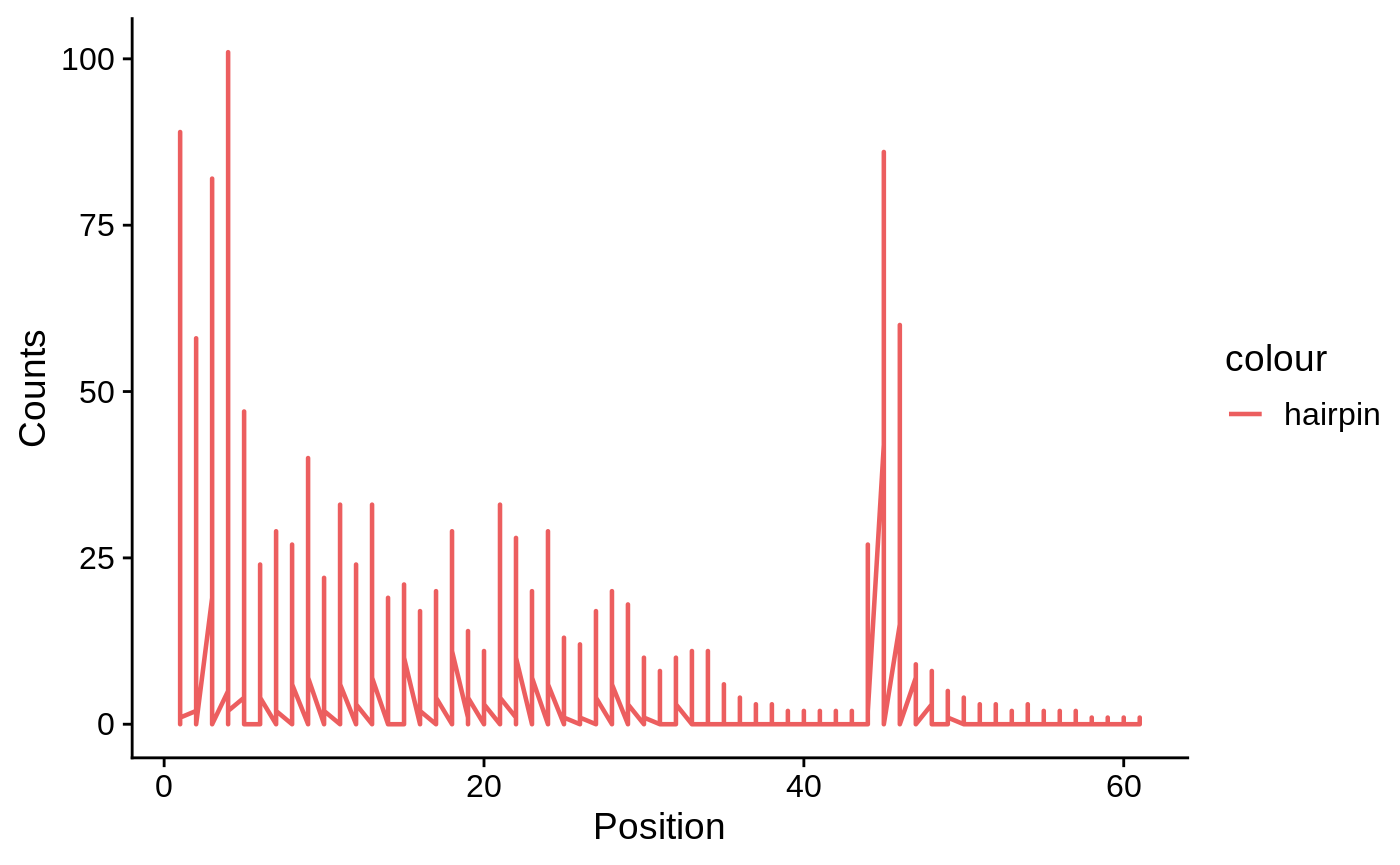
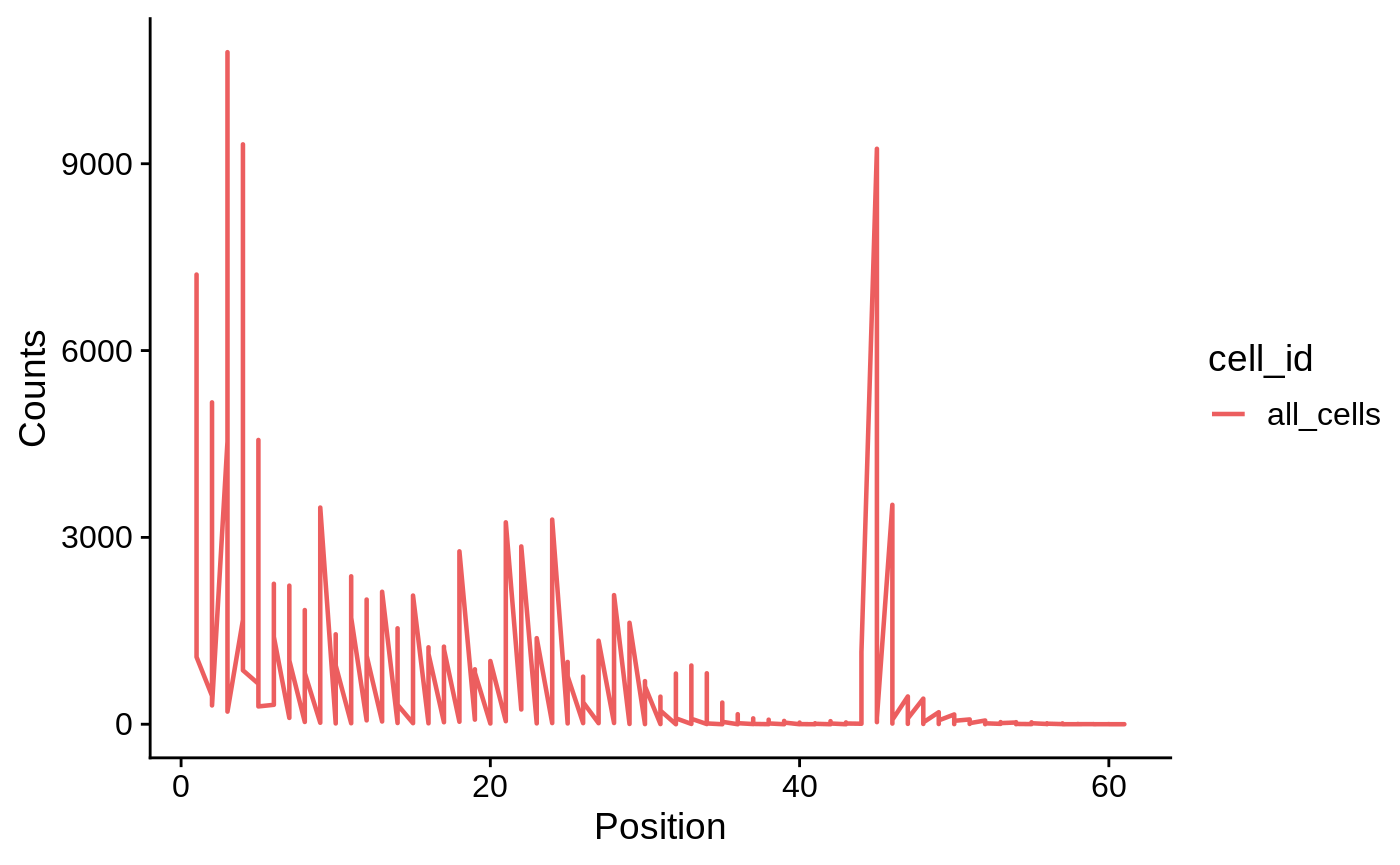
Built site for scrunchy: 0.0.0.9000@597fa8d

diff --git a/reference/cluster_kmeans.html b/reference/cluster_kmeans.html
@@ -193,17 +193,17 @@ clustering, defaults to all dimensions</p></td>
 <span class='kw pkg'>SingleCellExperiment</span><span class='kw ns'>::</span><span class='fu'>colData</span>(<span class='no'>fsce</span><span class='kw'>[[</span><span class='st'>"rnaseq"</span>]], <span class='st'>"k_cluster"</span>)</div><div class='output co'>#&gt; DataFrame with 250 rows and 4 columns
 #&gt;                           cell_id   k_cluster leiden_cluster  cell_cycle
 #&gt;                       &lt;character&gt; &lt;character&gt;    &lt;character&gt; &lt;character&gt;
-#&gt; TGCGGGTGTAGAGTGC TGCGGGTGTAGAGTGC           3              2           S
-#&gt; TGGTTCCCATCTATGG TGGTTCCCATCTATGG           4              4           S
-#&gt; CATATTCCACGTCAGC CATATTCCACGTCAGC           3              2         G2M
-#&gt; TCACAAGTCCTGCTTG TCACAAGTCCTGCTTG           5              3          G1
-#&gt; GGAATAATCCAGGGCT GGAATAATCCAGGGCT           4              4          G1
+#&gt; TGCGGGTGTAGAGTGC TGCGGGTGTAGAGTGC           4              2           S
+#&gt; TGGTTCCCATCTATGG TGGTTCCCATCTATGG           3              4           S
+#&gt; CATATTCCACGTCAGC CATATTCCACGTCAGC           4              2         G2M
+#&gt; TCACAAGTCCTGCTTG TCACAAGTCCTGCTTG           1              3          G1
+#&gt; GGAATAATCCAGGGCT GGAATAATCCAGGGCT           3              4          G1
 #&gt; ...                           ...         ...            ...         ...
-#&gt; CTACGTCCACCACGTG CTACGTCCACCACGTG           4              4          G1
-#&gt; TGTGGTAAGGTGCTTT TGTGGTAAGGTGCTTT           1              6          G1
-#&gt; AGCGTCGGTCGAGTTT AGCGTCGGTCGAGTTT           3              6          G1
-#&gt; CTCGAAAAGTTCGATC CTCGAAAAGTTCGATC           4              5         G2M
-#&gt; TGACAACGTCGCATAT TGACAACGTCGCATAT           4              4           S</div><div class='input'>
+#&gt; CTACGTCCACCACGTG CTACGTCCACCACGTG           3              4          G1
+#&gt; TGTGGTAAGGTGCTTT TGTGGTAAGGTGCTTT           5              6          G1
+#&gt; AGCGTCGGTCGAGTTT AGCGTCGGTCGAGTTT           4              6          G1
+#&gt; CTCGAAAAGTTCGATC CTCGAAAAGTTCGATC           3              5         G2M
+#&gt; TGACAACGTCGCATAT TGACAACGTCGCATAT           3              4           S</div><div class='input'>
 </div></pre>
   </div>
   <div class="col-md-3 hidden-xs hidden-sm" id="sidebar">

diff --git a/reference/calc_hairpin_coverage.html b/reference/calc_hairpin_coverage.html
@@ -159,20 +159,20 @@
     
 
     <h2 class="hasAnchor" id="examples"><a class="anchor" href="#examples"></a>Examples</h2>
-    <pre class="examples"><div class='input'><span class='fu'>calc_hairpin_coverage</span>(<span class='no'>fsce_small</span>)</div><div class='output co'>#&gt; # A tibble: 106,500 x 4
-#&gt;    cell_id          hairpin position count
-#&gt;    &lt;chr&gt;            &lt;chr&gt;      &lt;dbl&gt; &lt;dbl&gt;
-#&gt;  1 AAACCTGGTACCATCA Abasic         1     7
-#&gt;  2 AAACCTGGTACCATCA Abasic        10     0
-#&gt;  3 AAACCTGGTACCATCA Abasic        11     0
-#&gt;  4 AAACCTGGTACCATCA Abasic        12     0
-#&gt;  5 AAACCTGGTACCATCA Abasic        13     0
-#&gt;  6 AAACCTGGTACCATCA Abasic        14     0
-#&gt;  7 AAACCTGGTACCATCA Abasic        15     0
-#&gt;  8 AAACCTGGTACCATCA Abasic        16     0
-#&gt;  9 AAACCTGGTACCATCA Abasic        17     0
-#&gt; 10 AAACCTGGTACCATCA Abasic        18     0
-#&gt; # … with 106,490 more rows</div></pre>
+    <pre class="examples"><div class='input'><span class='fu'>calc_hairpin_coverage</span>(<span class='no'>fsce_small</span>)</div><div class='output co'>#&gt; # A tibble: 426 x 4
+#&gt;    cell_id   hairpin position count
+#&gt;    &lt;chr&gt;     &lt;chr&gt;      &lt;dbl&gt; &lt;dbl&gt;
+#&gt;  1 all_cells Abasic         1  3139
+#&gt;  2 all_cells Abasic        10    13
+#&gt;  3 all_cells Abasic        11    16
+#&gt;  4 all_cells Abasic        12    62
+#&gt;  5 all_cells Abasic        13    44
+#&gt;  6 all_cells Abasic        14    20
+#&gt;  7 all_cells Abasic        15    17
+#&gt;  8 all_cells Abasic        16    15
+#&gt;  9 all_cells Abasic        17    32
+#&gt; 10 all_cells Abasic        18    40
+#&gt; # … with 416 more rows</div></pre>
   </div>
   <div class="col-md-3 hidden-xs hidden-sm" id="sidebar">
     <h2>Contents</h2>

diff --git a/reference/cluster_leiden.html b/reference/cluster_leiden.html
@@ -200,16 +200,16 @@ and <code>igraph</code>.</p>
 #&gt;                           cell_id   k_cluster leiden_cluster  cell_cycle
 #&gt;                       &lt;character&gt; &lt;character&gt;    &lt;character&gt; &lt;character&gt;
 #&gt; TGCGGGTGTAGAGTGC TGCGGGTGTAGAGTGC           5              2           S
-#&gt; TGGTTCCCATCTATGG TGGTTCCCATCTATGG           1              3           S
+#&gt; TGGTTCCCATCTATGG TGGTTCCCATCTATGG           1              4           S
 #&gt; CATATTCCACGTCAGC CATATTCCACGTCAGC           2              2         G2M
-#&gt; TCACAAGTCCTGCTTG TCACAAGTCCTGCTTG           3              4          G1
-#&gt; GGAATAATCCAGGGCT GGAATAATCCAGGGCT           1              3          G1
+#&gt; TCACAAGTCCTGCTTG TCACAAGTCCTGCTTG           3              3          G1
+#&gt; GGAATAATCCAGGGCT GGAATAATCCAGGGCT           1              4          G1
 #&gt; ...                           ...         ...            ...         ...
-#&gt; CTACGTCCACCACGTG CTACGTCCACCACGTG           1              3          G1
+#&gt; CTACGTCCACCACGTG CTACGTCCACCACGTG           1              4          G1
 #&gt; TGTGGTAAGGTGCTTT TGTGGTAAGGTGCTTT           6              6          G1
 #&gt; AGCGTCGGTCGAGTTT AGCGTCGGTCGAGTTT           6              6          G1
 #&gt; CTCGAAAAGTTCGATC CTCGAAAAGTTCGATC           1              5         G2M
-#&gt; TGACAACGTCGCATAT TGACAACGTCGCATAT           1              3           S</div><div class='input'>
+#&gt; TGACAACGTCGCATAT TGACAACGTCGCATAT           1              4           S</div><div class='input'>
 </div></pre>
   </div>
   <div class="col-md-3 hidden-xs hidden-sm" id="sidebar">
